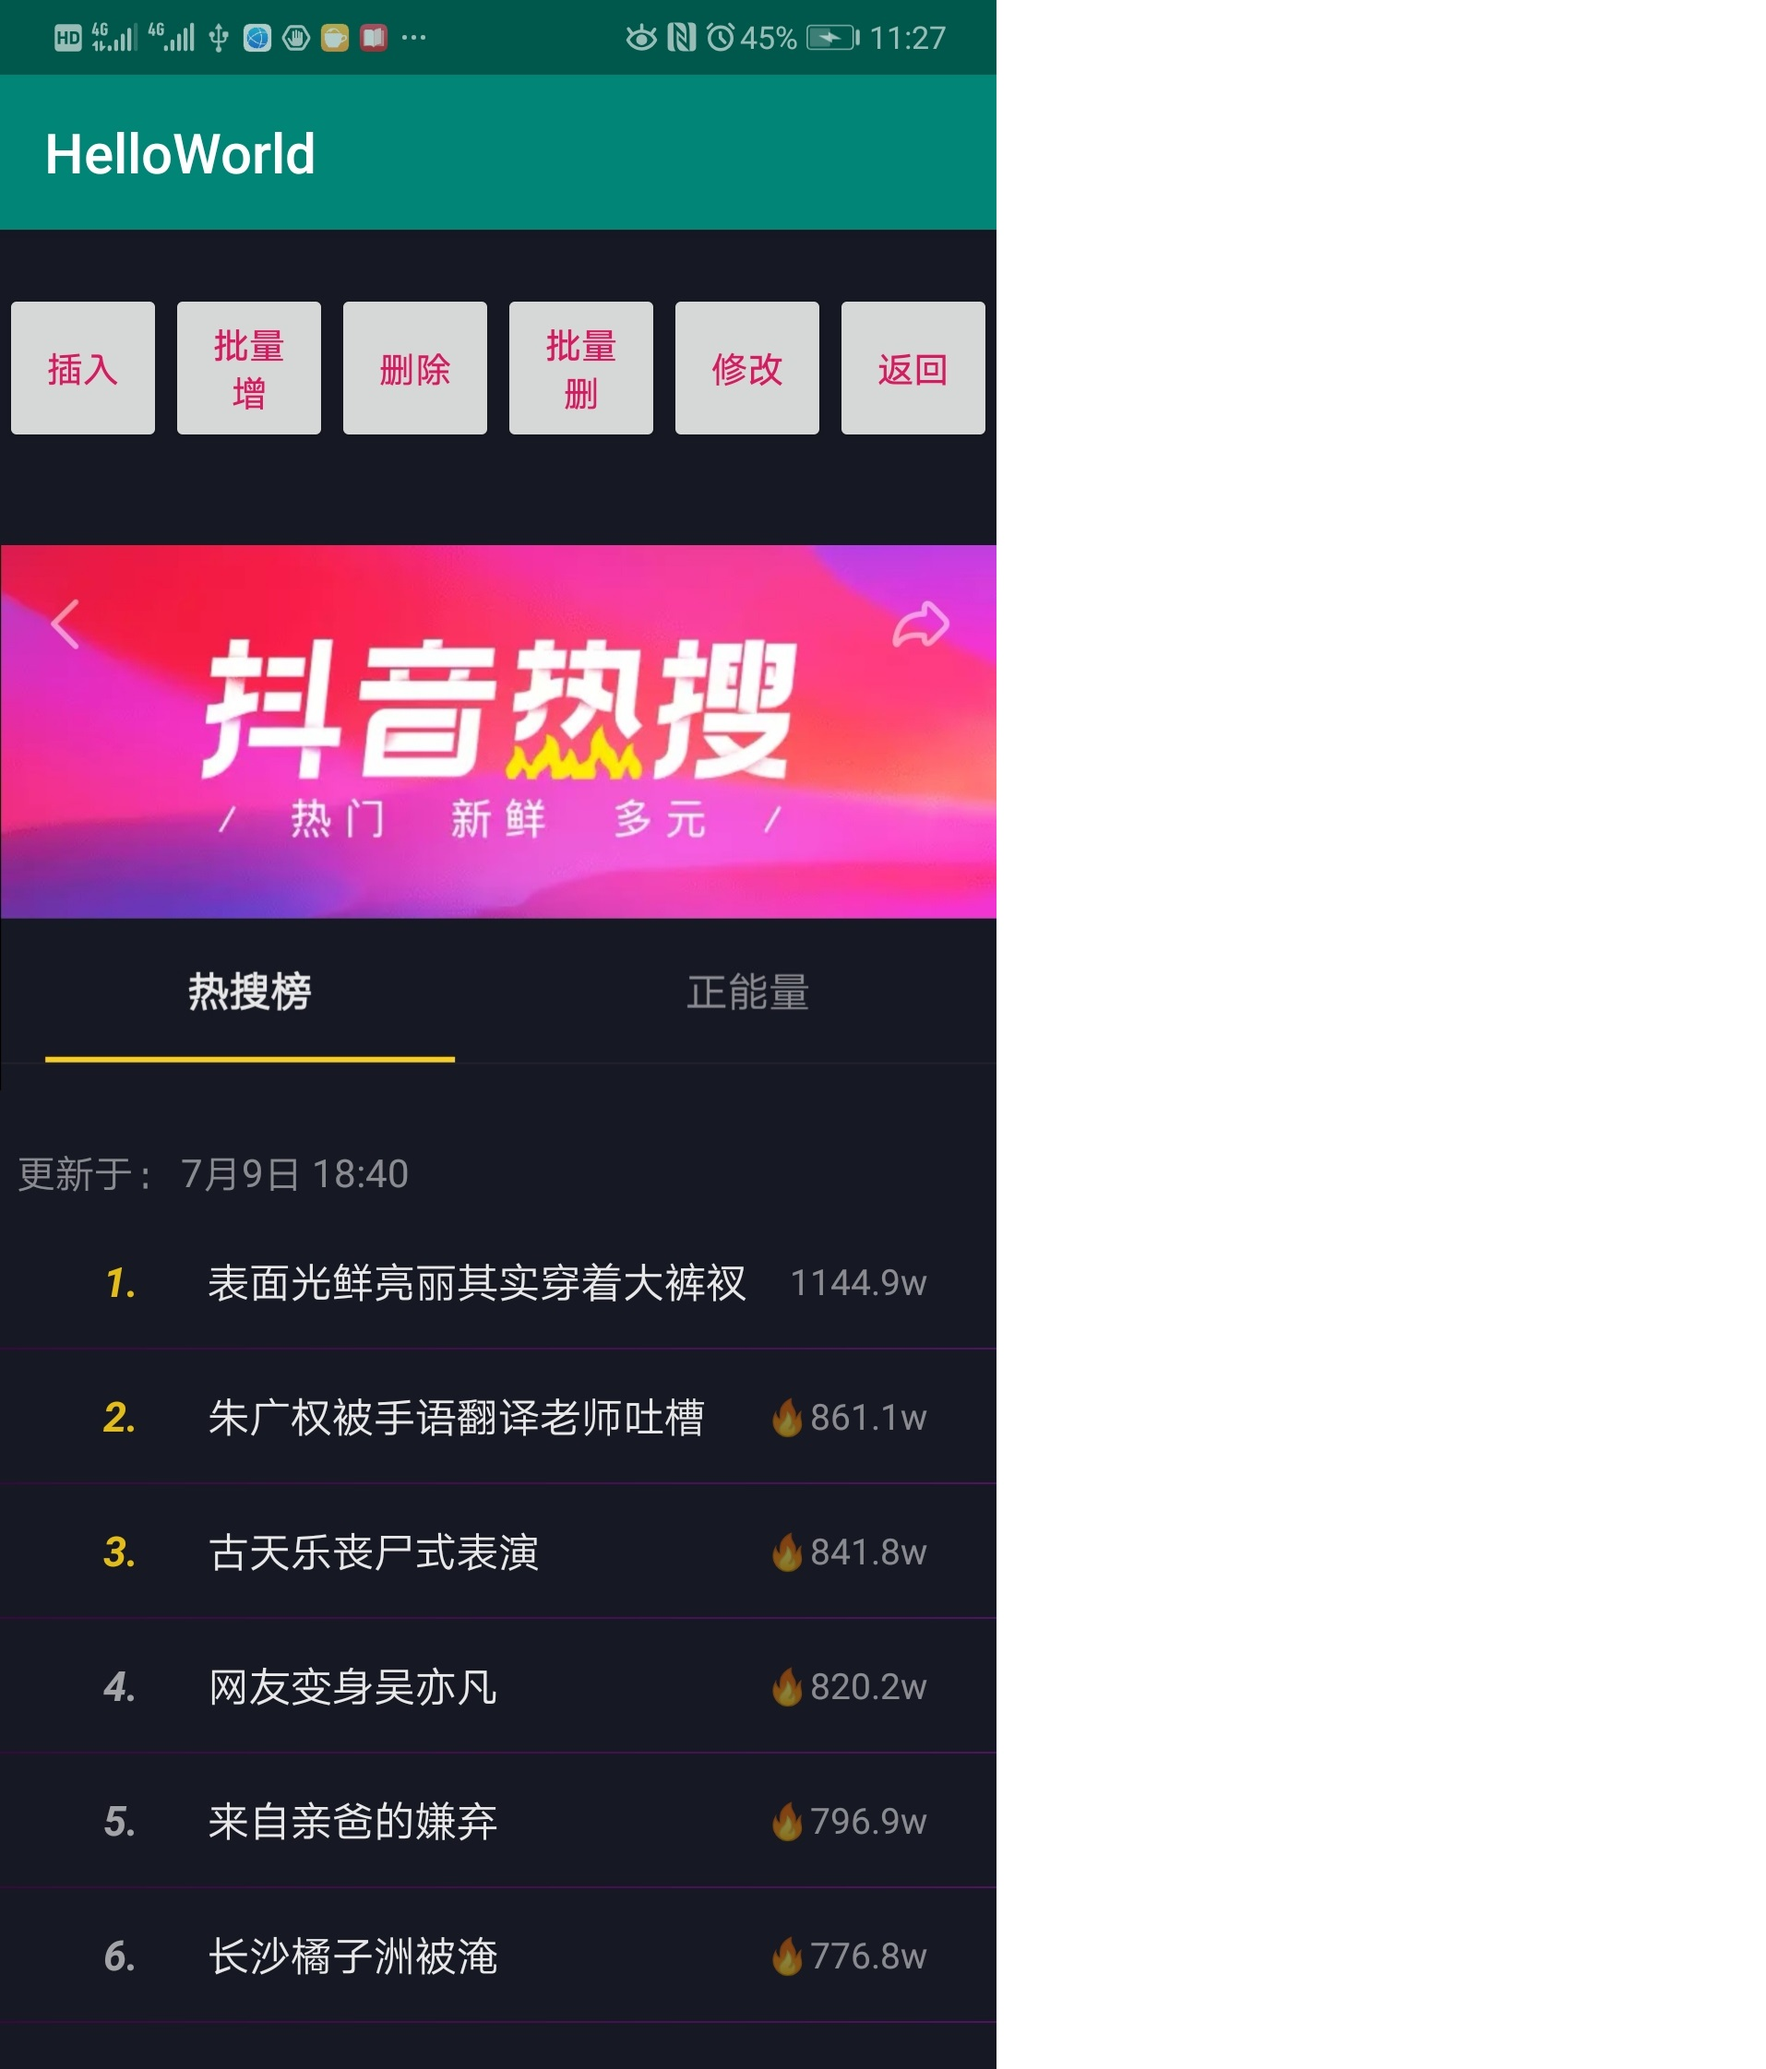
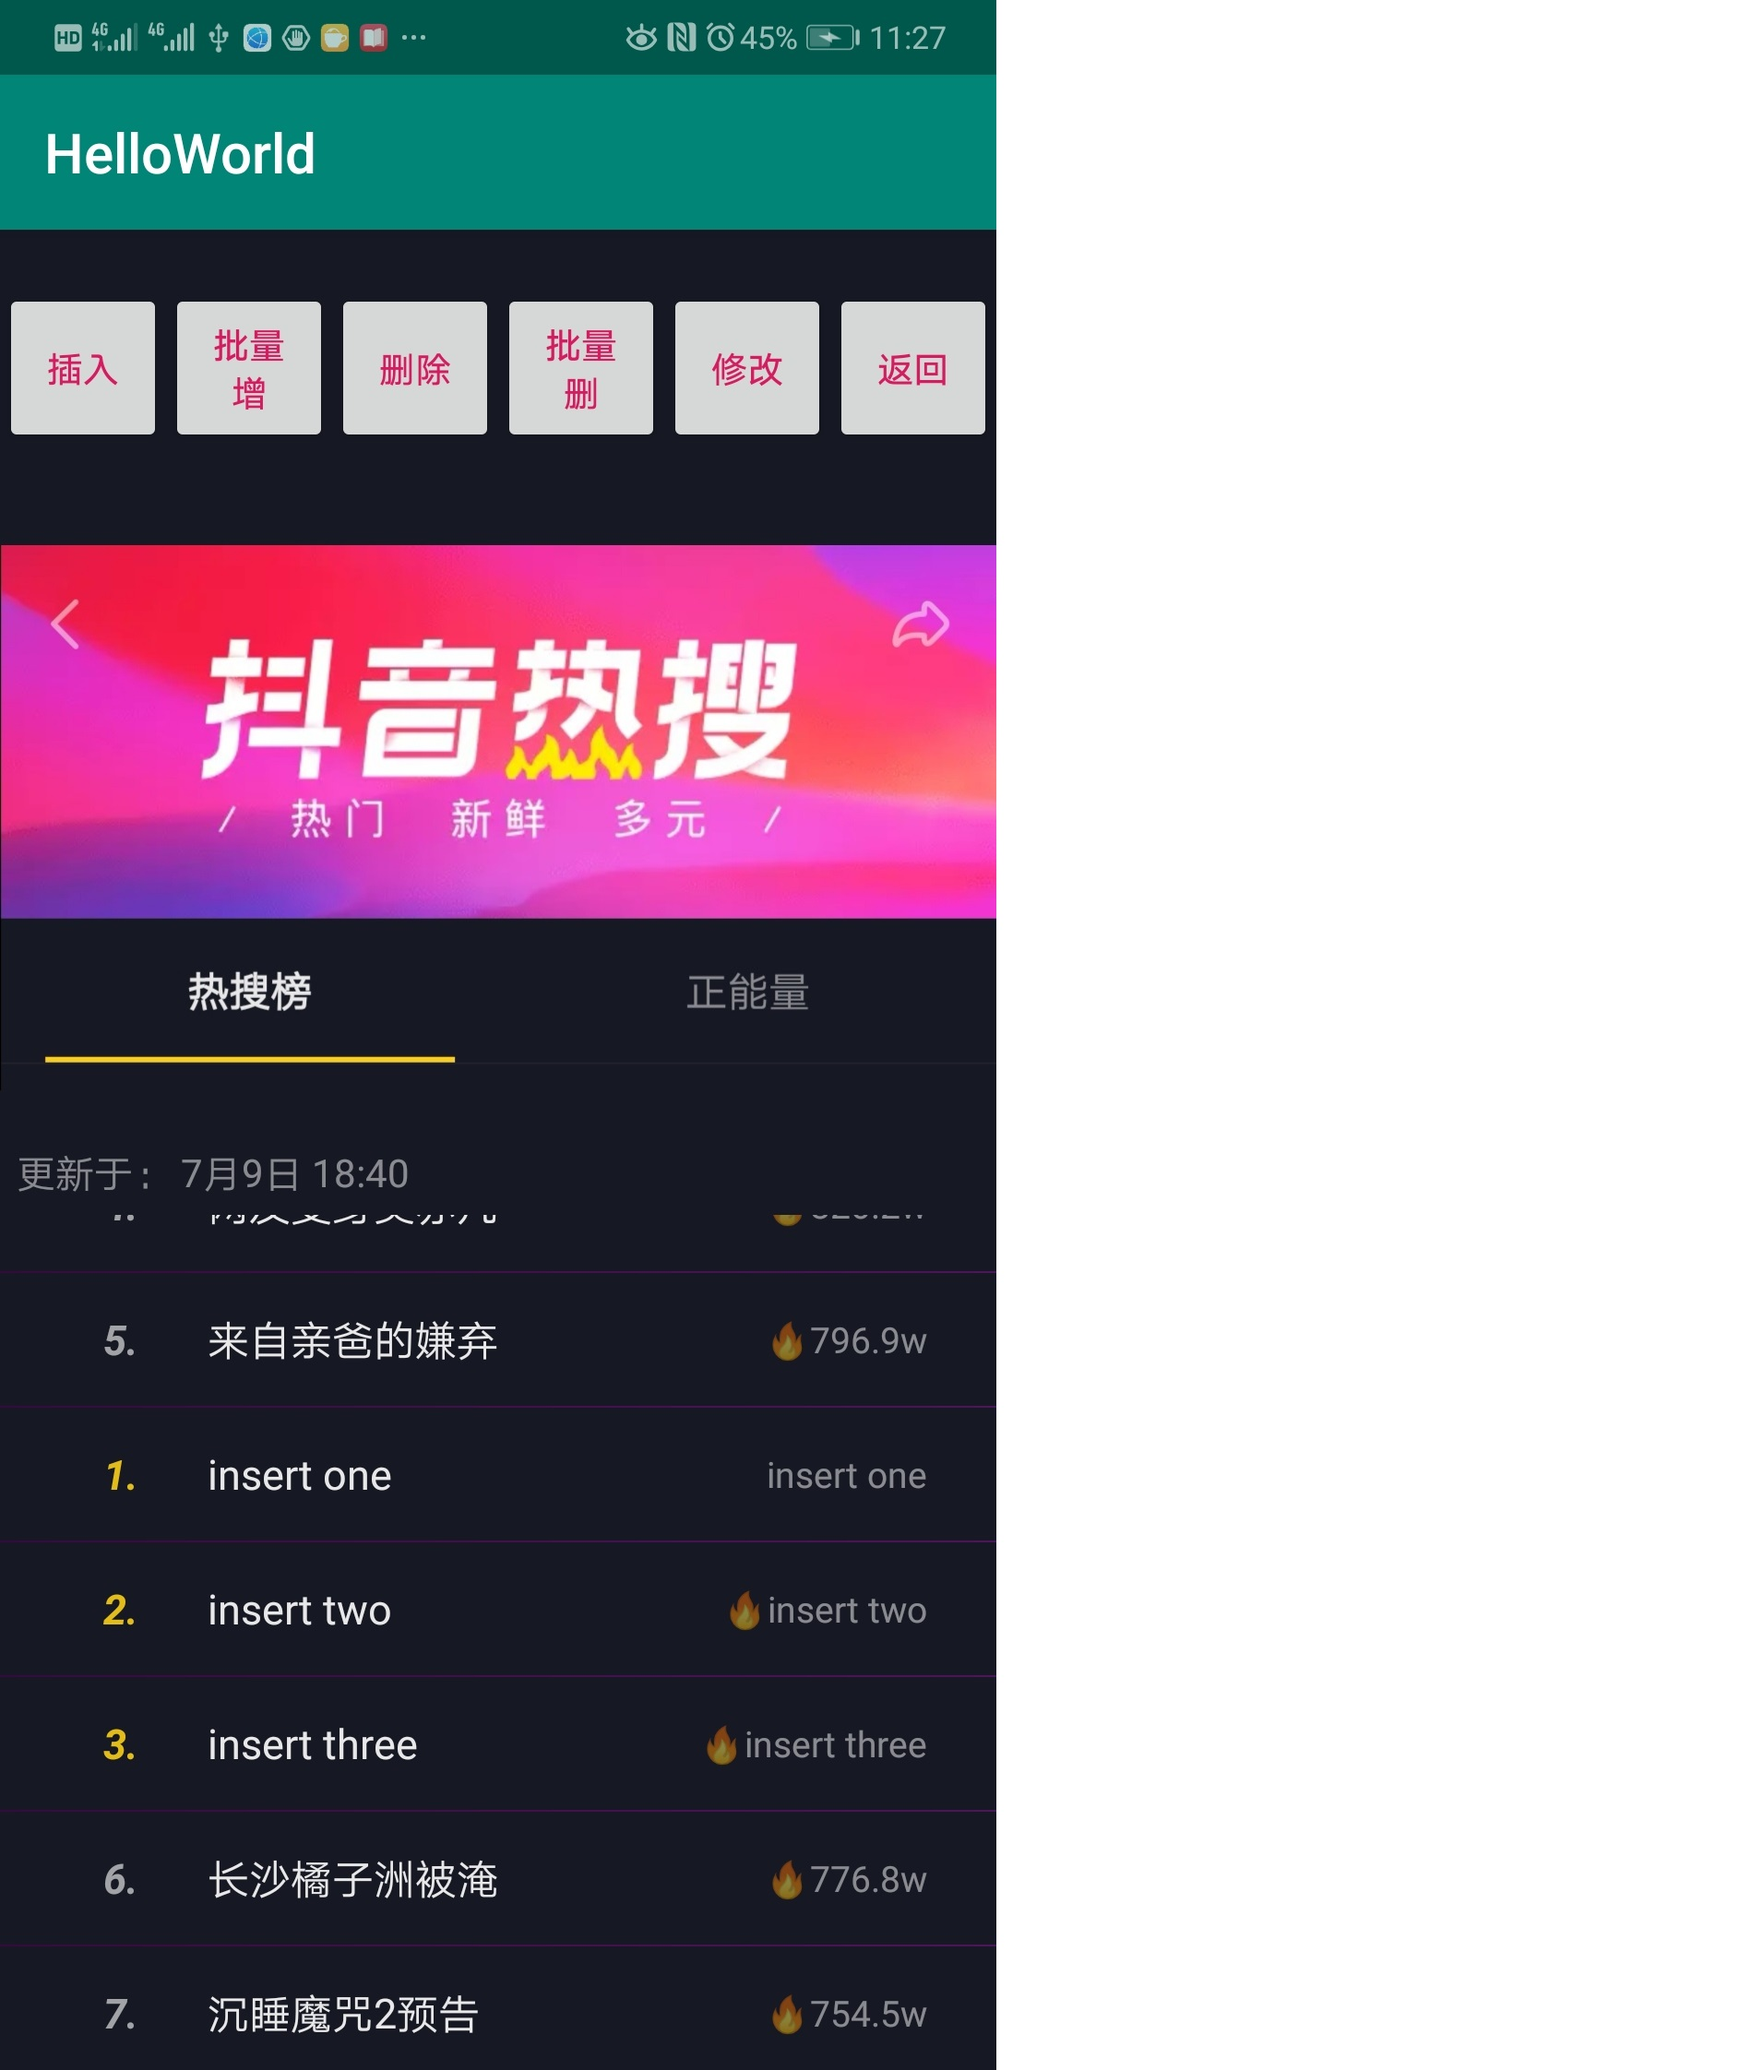
add fire symbol

diff --git a/app/src/main/java/com/percy/helloworld/recyclerview/ListTextViewHolder.java b/app/src/main/java/com/percy/helloworld/recyclerview/ListTextViewHolder.java
@@ -9,6 +9,7 @@ import android.support.v7.widget.RecyclerView;
 import android.view.LayoutInflater;
 import android.view.View;
 import android.view.ViewGroup;
+import android.widget.ImageView;
 import android.widget.TextView;
 import android.support.v7.widget.AppCompatImageView;
 import com.percy.helloworld.R;
@@ -18,7 +19,7 @@ public class ListTextViewHolder extends RecyclerView.ViewHolder {
     private TextView mTextView;
     private TextView mTextView1;
     private TextView mTextView2;
-    private android.support.v7.widget.AppCompatImageView mysymbol;
+    private ImageView imgView;
 
 
     public static ListTextViewHolder create(Context context, ViewGroup root) {
@@ -31,13 +32,17 @@ public class ListTextViewHolder extends RecyclerView.ViewHolder {
         mTextView = itemView.findViewById(R.id.index);
         mTextView1 = itemView.findViewById(R.id.Title);
         mTextView2 = itemView.findViewById(R.id.HotValue);
-        mysymbol  = itemView.findViewById(R.id.image2);
+        imgView  = itemView.findViewById(R.id.image2);
+
+
     }
 
     @SuppressLint("ResourceAsColor")
     public void bind(Data data) {
         if (null == data) return;
-
+        imgView.setImageResource(R.drawable.newsymbol);
+        if (data.getInfo()=="1."||data.getInfo()=="2."||data.getInfo()=="3."||data.getInfo()=="6.")
+            imgView.setVisibility(View.INVISIBLE);
         mTextView.setText(data.getInfo() + "");
         if (data.getInfo()!="1."&&data.getInfo()!="2."&&data.getInfo()!="3.") {
             mTextView.setTextColor(Color.argb(153,255,255,255));
@@ -46,9 +51,8 @@ public class ListTextViewHolder extends RecyclerView.ViewHolder {
         else mTextView.setTextColor(Color.argb(230,250,206,21));
         mTextView1.setText(data.gettitle() + "");
         mTextView2.setText(data.getHotvalue() + "");
-        if(data.getInfo()!="1.") mTextView2.setText("\uD83D\uDD25"+data.getHotvalue() + "");
-       // if (data.getInfo()!="1.")
-          //  mysymbol.setVisibility(View.INVISIBLE);
+         mTextView2.setText("\uD83D\uDD25"+data.getHotvalue() + "");
+
     }
 
 

diff --git a/app/src/main/java/com/percy/helloworld/recyclerview/recyclerview_activity.java b/app/src/main/java/com/percy/helloworld/recyclerview/recyclerview_activity.java
@@ -35,9 +35,11 @@ public class recyclerview_activity extends AppCompatActivity {
         mListView.setAdapter(mAdapter);
         mAdapter.setList(DataFactory.getData(30));
         mAdapter.notifyDataSetChanged();
+        //图片显示
         //ImageView imgView = (ImageView) this.findViewById(R.id.image2);
-       // final int[] imageItems = new int[] { R.drawable.head };
+        //final int[] imageItems = new int[] { R.drawable.newsymbol };
         //imgView.setImageResource(imageItems[0]);
+
         //添加自定义分割线
         DividerItemDecoration divider = new DividerItemDecoration(this,DividerItemDecoration.VERTICAL);
         divider.setDrawable(ContextCompat.getDrawable(this,R.drawable.line));
